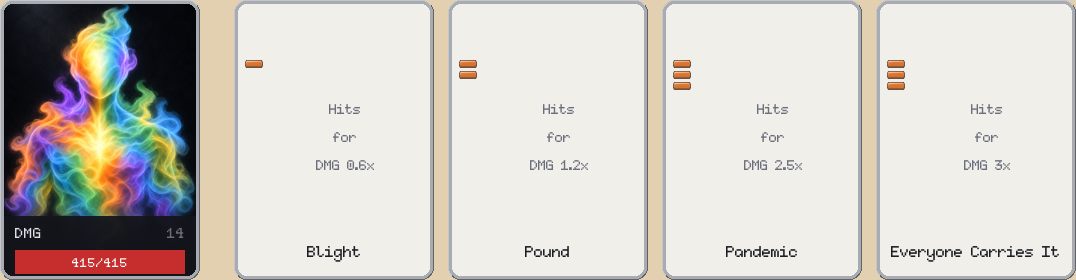
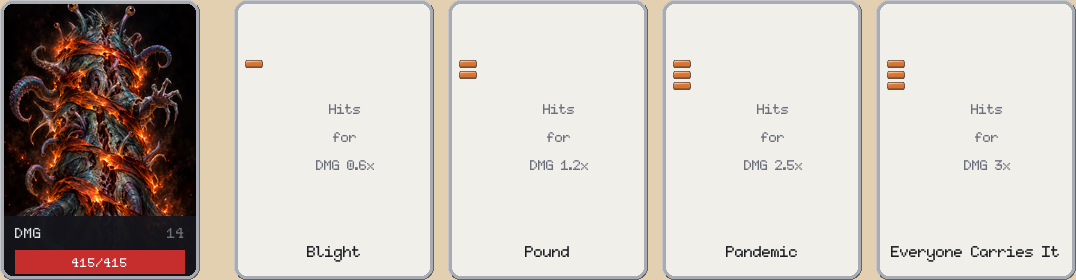
Draw the aliens and brief the avians
The aliens motif has its pictures. Thirty-six portraits land in assets/enemy/ —
nine records across three tiers, each in the four elements its affinities allow —
and the roster sheet is regenerated so the nine strips draw real art instead of
default-enemy.png, with an other-colours row appearing for each record now that
it has more than one picture to show. Nothing was replaced: the batch is all new
files, every one 200x280, every stem matching a record, so there was no
comparison to make and tools/artcompare has no enemy catalog to make it in.

The avians get their fourth layer. Every record's Draw was TBD, so the generator
had the motif's body plan and the element's treatment and nothing about which
bird it was drawing. Each brief now carries shape, weapon and attitude only — no
colour word anywhere, because ElementDraw owns feathers, claws and weapon across
five elements and a hue named on the record would fight four of them. What the
briefs are working hardest at is silhouette: the crop is chest-up and nine
bird-people are one bird-person unless the bill, the wings and the thing in the
claw differ. The Bone Ratite is the one that overrides layer 1's framing, because
a ratite's read is its legs and a chest crop throws that away.

The avians' own motif and element blocks are thinner than the goblins' and the
aliens' — five short colour phrases against a paragraph each — so those pictures
will differ mostly by hue rather than by the element doing something to the
[…]

Changed region(s): [[0.0, 0.0, 0.184, 0.7714]]

diff --git a/docs/sheets/motifsheet/index.html b/docs/sheets/motifsheet/index.html
@@ -344,6 +344,19 @@ table.cover td.short { color: #b03a3a; font-weight: 700; }
       <p class="affix">Dealt as: ice, lightning, earth, arcane</p>
 
       
+      <details class="others">
+        <summary>Show its other 3 colours</summary>
+        <div class="strip">
+          <div>
+            <img src="elements-aliens-outer-specimen.png" width="628" height="280"
+                 alt="Specimen in its other colours">
+            <div class="elabels">
+              <span>Lightning</span><span>Earth</span><span>Arcane</span>
+            </div>
+          </div>
+        </div>
+      </details>
+      
       <p class="draw">Something that was being kept and has got out. A slack upright trunk with four mismatched limbs, two of them tentacles, and a low crown of short eye stalks all swivelled onto the viewer at once. Its wrapped garment is torn open down one side and a cut length of tether still hangs from the collar. Upright but not braced — it has not decided what it is yet.</p>
     </div>
   
@@ -397,6 +410,19 @@ table.cover td.short { color: #b03a3a; font-weight: 700; }
 
       <p class="affix">Dealt as: fire, lightning, earth, arcane</p>
 
+      
+      <details class="others">
+        <summary>Show its other 3 colours</summary>
+        <div class="strip">
+          <div>
+            <img src="elements-aliens-outer-drone.png" width="628" height="280"
+                 alt="Survey Drone in its other colours">
+            <div class="elabels">
+              <span>Lightning</span><span>Earth</span><span>Arcane</span>
+            </div>
+          </div>
+        </div>
+      </details>
       
       <p class="draw">A squat hovering body with no legs at all, a ring of long thin eye stalks around its upper rim turning at different speeds, and three jointed arms folded underneath ending in instruments rather than hands. Its garment is a fitted band of hanging panels around the middle of the body, cut for a torso that is a sphere. It hangs slightly nose-down, measuring you.</p>
     </div>
@@ -452,6 +478,19 @@ table.cover td.short { color: #b03a3a; font-weight: 700; }
       <p class="affix">Dealt as: fire, ice, earth, arcane</p>
 
       
+      <details class="others">
+        <summary>Show its other 3 colours</summary>
+        <div class="strip">
+          <div>
+            <img src="elements-aliens-outer-husk.png" width="628" height="280"
+                 alt="Seeded Husk in its other colours">
+            <div class="elabels">
+              <span>Ice</span><span>Earth</span><span>Arcane</span>
+            </div>
+          </div>
+        </div>
+      </details>
+      
       <p class="draw">A hollowed body carrying something else&#39;s young. The trunk has split down the front and the gap is packed with translucent sacs; two long tentacles hold the split closed from either side and a third has gone slack. Only two eye stalks are left and one has drooped. Its garment is intact and neatly fastened, which is the worst part.</p>
     </div>
   
@@ -505,6 +544,19 @@ table.cover td.short { color: #b03a3a; font-weight: 700; }
 
       <p class="affix">Dealt as: fire, lightning, earth, arcane</p>
 
+      
+      <details class="others">
+        <summary>Show its other 3 colours</summary>
+        <div class="strip">
+          <div>
+            <img src="elements-aliens-inner-abomination.png" width="628" height="280"
+                 alt="Abomination in its other colours">
+            <div class="elabels">
+              <span>Lightning</span><span>Earth</span><span>Arcane</span>
+            </div>
+          </div>
+        </div>
+      </details>
       
       <p class="draw">Too much of everything. Limbs in the wrong count, three of them tentacles, coming off a trunk with no clear front, and eye stalks in a disordered thicket rather than a row. It wears a harness built for something with half its limbs, buckled across it anyway and cutting into the flesh where the extra ones grew through.</p>
     </div>
@@ -560,6 +612,19 @@ table.cover td.short { color: #b03a3a; font-weight: 700; }
       <p class="affix">Dealt as: fire, ice, earth, arcane</p>
 
       
+      <details class="others">
+        <summary>Show its other 3 colours</summary>
+        <div class="strip">
+          <div>
+            <img src="elements-aliens-inner-watcher.png" width="628" height="280"
+                 alt="The Watcher in its other colours">
+            <div class="elabels">
+              <span>Ice</span><span>Earth</span><span>Arcane</span>
+            </div>
+          </div>
+        </div>
+      </details>
+      
       <p class="draw">A tall narrow stalk of a creature that is almost entirely eyes. A slender trunk widens into a crown of long eye stalks, more than can be counted, fanned out and every one aimed forward. The two short tentacles below are folded and still. Its garment is a full-length robe of overlapping hanging panels running to the bottom of the picture, and the stalks come out of its collar.</p>
     </div>
   
@@ -613,6 +678,19 @@ table.cover td.short { color: #b03a3a; font-weight: 700; }
 
       <p class="affix">Dealt as: fire, ice, lightning, arcane</p>
 
+      
+      <details class="others">
+        <summary>Show its other 3 colours</summary>
+        <div class="strip">
+          <div>
+            <img src="elements-aliens-inner-harvester.png" width="628" height="280"
+                 alt="Harvester in its other colours">
+            <div class="elabels">
+              <span>Ice</span><span>Lightning</span><span>Arcane</span>
+            </div>
+          </div>
+        </div>
+      </details>
       
       <p class="draw">Built to take things apart. A heavy forward-leaning trunk on four short legs, with two long tentacles and two rigid arms ending in curved cutting hooks, held out and open. A cluster of eye stalks sits low on the front of the body, below the arms, so it looks up at what it is working on. It wears a panelled apron, heavily stained.</p>
     </div>
@@ -676,6 +754,19 @@ table.cover td.short { color: #b03a3a; font-weight: 700; }
       <p class="affix">Dealt as: fire, ice, earth, arcane</p>
 
       
+      <details class="others">
+        <summary>Show its other 3 colours</summary>
+        <div class="strip">
+          <div>
+            <img src="elements-aliens-boss-toxoid.png" width="628" height="280"
+                 alt="Bio-Titan Toxoid in its other colours">
+            <div class="elabels">
+              <span>Ice</span><span>Earth</span><span>Arcane</span>
+            </div>
+          </div>
+        </div>
+      </details>
+      
       <p class="draw">A swollen giant. The trunk is a bloated sac overhanging a ring of short thick legs, its skin translucent over something that moves inside it, and four tentacles come off the upper body and drip steadily. The eye stalks are short and sunk into the swelling, barely clearing it. Its garment is a wide collar of plates around the top of the sac, far too small to cover what is under it.</p>
     </div>
   
@@ -738,6 +829,19 @@ table.cover td.short { color: #b03a3a; font-weight: 700; }
       <p class="affix">Dealt as: fire, ice, lightning, arcane</p>
 
       
+      <details class="others">
+        <summary>Show its other 3 colours</summary>
+        <div class="strip">
+          <div>
+            <img src="elements-aliens-boss-plagueborn.png" width="628" height="280"
+                 alt="Bio-Titan Plagueborn in its other colours">
+            <div class="elabels">
+              <span>Ice</span><span>Lightning</span><span>Arcane</span>
+            </div>
+          </div>
+        </div>
+      </details>
+      
       <p class="draw">A giant coming apart into others. The main trunk is ridged and split in several places, and smaller limbs — half-formed tentacles, partial eye stalks, a hand with nothing behind it — push out of the splits the whole length of it. Its garment is wrapped round and round the trunk in bands, and the new limbs have torn through it at every height.</p>
     </div>
   
@@ -799,6 +903,19 @@ table.cover td.short { color: #b03a3a; font-weight: 700; }
 
       <p class="affix">Dealt as: fire, ice, lightning, earth</p>
 
+      
+      <details class="others">
+        <summary>Show its other 3 colours</summary>
+        <div class="strip">
+          <div>
+            <img src="elements-aliens-boss-omega.png" width="628" height="280"
+                 alt="Bio-Titan Omega in its other colours">
+            <div class="elabels">
+              <span>Ice</span><span>Lightning</span><span>Earth</span>
+            </div>
+          </div>
+        </div>
+      </details>
       
       <p class="draw">The largest and the only finished one. A tall trunk that reads symmetrical at a distance and resolves into nothing that matches: limbs in tiers down the body, the upper pair rigid and bladed, the lower pairs tentacles, and a single unbroken ring of long eye stalks at the top, evenly spaced and all open. It wears layered hanging panels from the ring down, cut cleanly and fitted exactly — the only one of them dressed on purpose.</p>
     </div>
@@ -3310,7 +3427,7 @@ table.cover td.short { color: #b03a3a; font-weight: 700; }
       <div class="head">
         <span class="named">
           <span class="name">Luna</span>
-          <span class="title">the Arcana</span>
+          <span class="title">the Arcane</span>
         </span>
         <span class="record">big-cats-boss-luna</span>
         <span class="family">boss</span>

diff --git a/docs/art/creature_art_prompt.MD b/docs/art/creature_art_prompt.MD
@@ -10,14 +10,14 @@ band — so the portrait is composed against the 200 x 200 above it.
 Nothing here is the whole prompt. A finished brief is these four blocks in this order, and the
 first is the only one in this file:
 
-| layer | where it lives | what it says |
-|---|---|---|
-| 1. style and composition | **this file** | canvas, framing, ground, light, rendering — true of every creature in the game |
-| 2. the motif | `Draw` on the motif's file header | the body plan: what makes a goblin a goblin |
-| 3. the element, for that motif | `ElementDraw` on the same header | what fire does *to a goblin*, which is not what it does to a slime |
-| 4. the record | `Draw` on the record | this particular creature: what it is doing, what it carries |
+| layer                          | where it lives                    | what it says                                                                   |
+| ------------------------------ | --------------------------------- | ------------------------------------------------------------------------------ |
+| 1. style and composition       | **this file**                     | canvas, framing, ground, light, rendering — true of every creature in the game |
+| 2. the motif                   | `Draw` on the motif's file header | the body plan: what makes a goblin a goblin                                    |
+| 3. the element, for that motif | `ElementDraw` on the same header  | what fire does _to a goblin_, which is not what it does to a slime             |
+| 4. the record                  | `Draw` on the record              | this particular creature: what it is doing, what it carries                    |
 
-**Layer 3 is per motif on purpose.** An ice slime *is* ice, all the way through; an ice goblin is a
+**Layer 3 is per motif on purpose.** An ice slime _is_ ice, all the way through; an ice goblin is a
 goblin wearing frost. One elemental block written for the whole roster would be right for one of
 them and wrong for the other.
 
@@ -90,16 +90,16 @@ haft" is a haft in the stab material. These are the game's own colors and the pi
 beside cards drawn in them, so the word means this range here rather than whatever you would
 otherwise reach for.
 
-| Word | Ramp | dark | core | light |
-|---|---|---|---|---|
-| orange | fire | `#9E2F13` | `#F06A24` | `#FFB24A` |
-| yellow | lightning | `#A98200` | `#F2D13D` | `#FFF38A` |
-| green | earth | `#285E35` | `#4E9B57` | `#8BCB78` |
-| blue | ice | `#245A86` | `#4E9ED6` | `#A8DDF4` |
-| purple | arcane | `#4C2A78` | `#8A5BC7` | `#C8A4F2` |
-| cream, ivory | ivory | `#9B8B68` | `#DCCFAE` | `#FFF3D2` |
-| cool gray, steel | steel | `#59636B` | `#9DA8B0` | `#D8DEE2` |
-| dark gray, granite | granite | `#3C3E41` | `#6B6D70` | `#A1A3A6` |
+| Word               | Ramp      | dark      | core      | light     |
+| ------------------ | --------- | --------- | --------- | --------- |
+| orange             | fire      | `#9E2F13` | `#F06A24` | `#FFB24A` |
+| yellow             | lightning | `#A98200` | `#F2D13D` | `#FFF38A` |
+| green              | earth     | `#285E35` | `#4E9B57` | `#8BCB78` |
+| blue               | ice       | `#245A86` | `#4E9ED6` | `#A8DDF4` |
+| purple             | arcane    | `#4C2A78` | `#8A5BC7` | `#C8A4F2` |
+| cream, ivory       | ivory     | `#9B8B68` | `#DCCFAE` | `#FFF3D2` |
+| cool gray, steel   | steel     | `#59636B` | `#9DA8B0` | `#D8DEE2` |
+| dark gray, granite | granite   | `#3C3E41` | `#6B6D70` | `#A1A3A6` |
 
 The element name and the color word are the same instruction — `arcane` and "purple" both mean that
 row, and so do `ivory` and "cream". The last three rows are the game's three form materials:
@@ -137,7 +137,7 @@ or washed out far enough that the element stops being readable. A color word not
    different enough to tell them apart in the dark? For a creature with no face this is the whole
    of what distinguishes it.
 5. **Is the element unmistakable** without reading the name, and is it the element doing what
-   layer 3 said it does to *this* motif?
+   layer 3 said it does to _this_ motif?
 6. **Is the ground opaque to all four edges**, tinted toward the element's ramp rather than pure
    black, and empty of scenery?
 7. **Is there anything in the corners** — a mark, a device, a darkening, a reserved patch? There
@@ -145,4 +145,4 @@ or washed out far enough that the element stops being readable. A color word not
 8. **Is there a contour** all the way round, thick enough to survive the reduction?
 
 Name it `<Art>-<element>.png`, exactly as the brief says, and give me a link I can click to
-download it.
+download it. give me a bundled zip of all the files.
